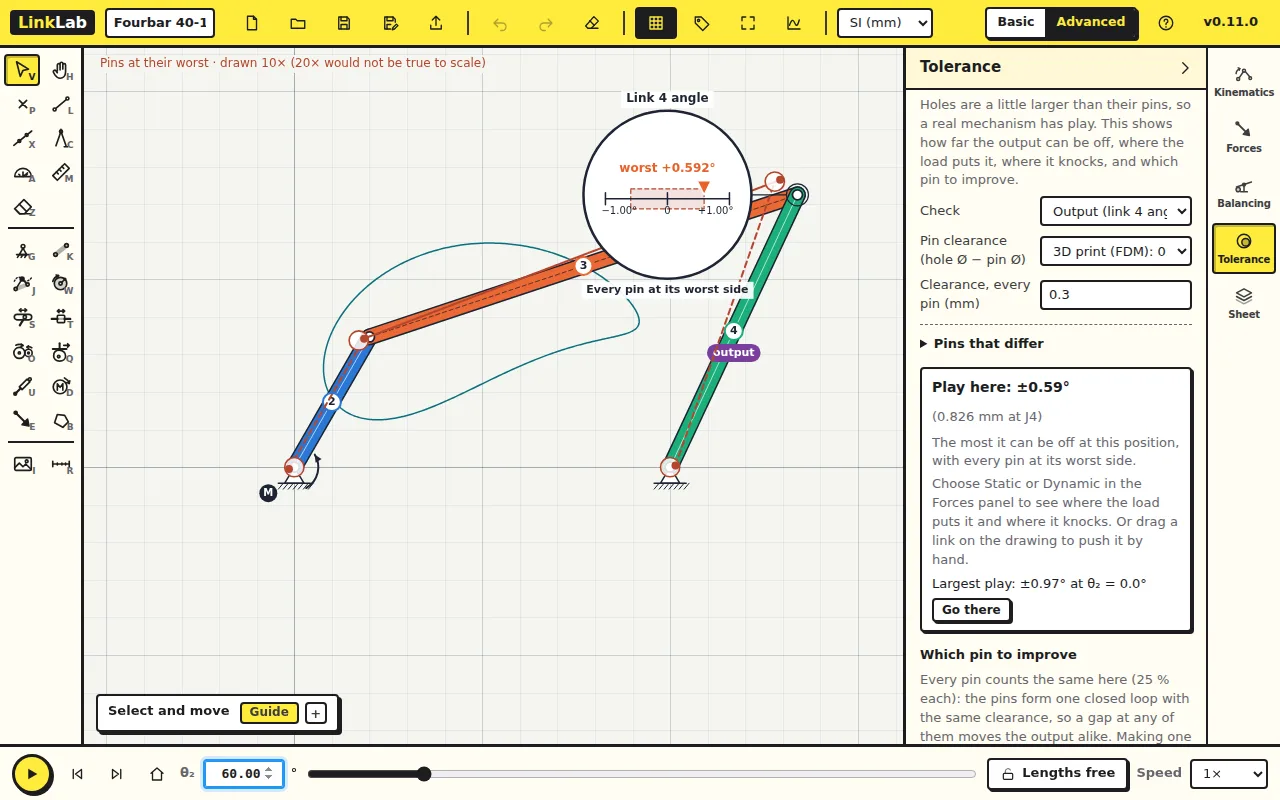
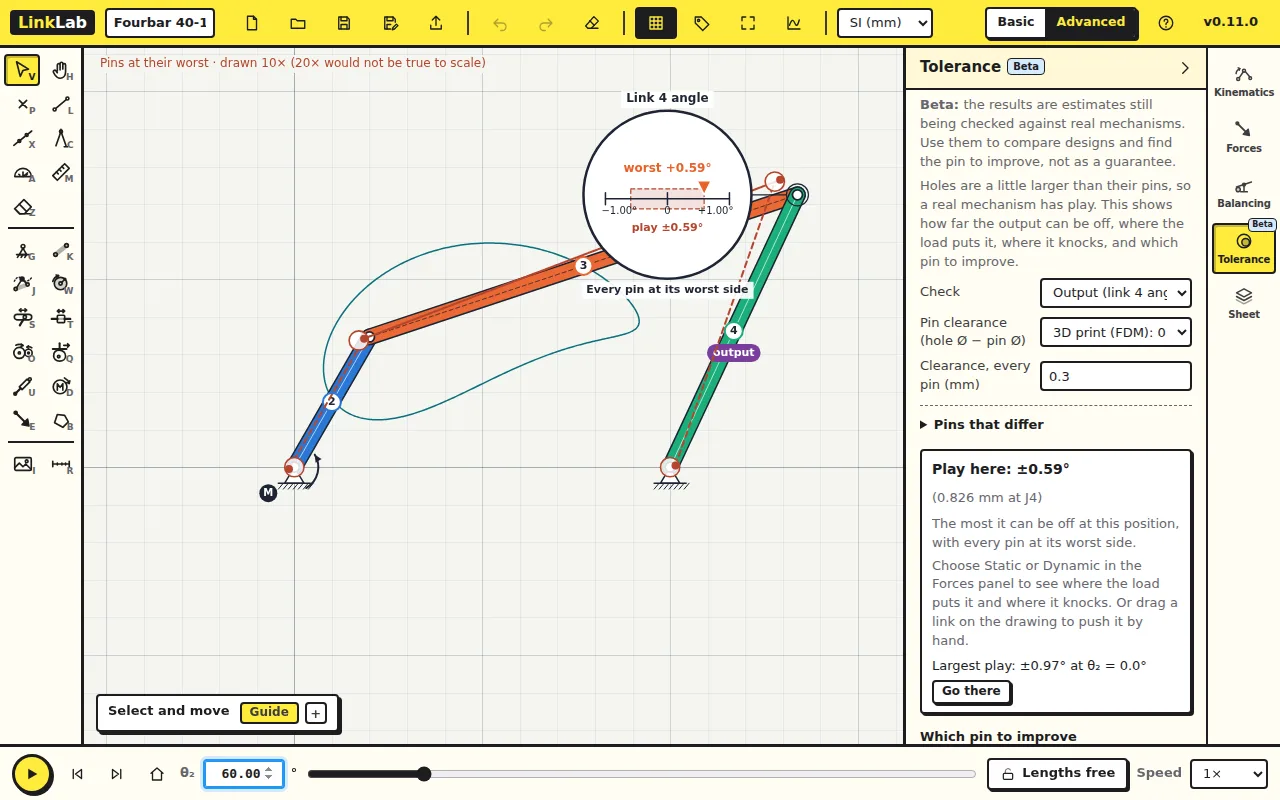
LinkLab: Tolerance marked Beta; magnifier labels; Download saves .html
The magnifier writes the play under its band and names its marker (load, push, worst), rounded as in the panel. The Download buttons save LinkLab.html and CamLab.html instead of .htm.

Claude-Session: https://claude.ai/code/session_013RBSkQq36nzQ5pYWu4cGHU

diff --git a/apps/linklab/src/ui/sidebar.js b/apps/linklab/src/ui/sidebar.js
@@ -4,7 +4,7 @@
 //   Kinematics   input, output, positions, mobility (analysis.js)
 //   Forces       statics and dynamics (forcesPanel.js)
 //   Balancing    counterweights and the rotor calculator (balancePanel.js)
-//   Tolerance    pin play and hole position error: path band (tolerancePanel.js)
+//   Tolerance    pin play and hole position error (tolerancePanel.js); marked Beta
 //   Sheet        layers, display sizes and colours (here); units: top bar
 // The tabs sit on a narrow rail at the right edge. Clicking the open tab (or
 // the arrow in its header) hides the panel and gives the drawing the room;
@@ -34,7 +34,7 @@ const TABS = [
   { id: 'kinematics', label: 'Kinematics', title: 'Kinematics', icon: 'tabKinematics' },
   { id: 'forces', label: 'Forces', title: 'Forces', icon: 'force' },
   { id: 'balance', label: 'Balancing', title: 'Balancing', icon: 'tabBalance' },
-  { id: 'tolerance', label: 'Tolerance', title: 'Tolerance', icon: 'tabTolerance' },
+  { id: 'tolerance', label: 'Tolerance', title: 'Tolerance', icon: 'tabTolerance', beta: true },   // beta: a badge on the tab and title
   { id: 'sheet', label: 'Sheet', title: 'Layers, units, grid and display', icon: 'tabSheet' },
 ];
 
@@ -69,7 +69,8 @@ export function buildSidebar(el, app) {
       const b = h('button', {
         class: 'side-tab', role: 'tab', 'aria-controls': 'side-body', title: t.title,
         onclick: () => (t.id === st.tab && !st.hidden ? setHidden(true) : show(t.id)),
-      }, icon(ICONS[t.icon], 20), h('span', { class: 'side-tab-label' }, t.label), h('span', { class: 'side-dot', hidden: true }));
+      }, icon(ICONS[t.icon], 20), h('span', { class: 'side-tab-label' }, t.label), h('span', { class: 'side-dot', hidden: true }),
+        t.beta ? h('span', { class: 'beta-badge side-beta', 'aria-hidden': 'true' }, 'Beta') : null);
       tabButtons.set(t.id, b);
       return b;
     }));
@@ -144,7 +145,7 @@ export function buildSidebar(el, app) {
   function updateRail() {
     el.classList.toggle('collapsed', st.hidden);
     const t = TABS.find((x) => x.id === st.tab);
-    title.textContent = t.title;
+    replaceChildren(title, t.title, t.beta ? h('span', { class: 'beta-badge' }, 'Beta') : null);
     for (const [id, b] of tabButtons) {
       const on = id === st.tab && !st.hidden;
       b.classList.toggle('on', on);
@@ -159,7 +160,8 @@ export function buildSidebar(el, app) {
     for (const [id, b] of tabButtons) {
       const dot = b.querySelector('.side-dot');
       dot.hidden = !dots[id];
-      b.title = TABS.find((x) => x.id === id).title + (id === 'forces' && dots.forces ? ' (on)' : id === 'balance' && dots.balance ? ' (counterweights in use)' : '');
+      const tab = TABS.find((x) => x.id === id);
+      b.title = tab.title + (tab.beta ? ' (beta)' : '') + (id === 'forces' && dots.forces ? ' (on)' : id === 'balance' && dots.balance ? ' (counterweights in use)' : '');
     }
   }
 

diff --git a/apps/linklab/src/drawing/render.js b/apps/linklab/src/drawing/render.js
@@ -558,7 +558,12 @@ export class Renderer {
       // for a point: the largest over the cycle spikes next to a limit and
       // would squash the play here to nothing)
       const isAng = tg.kind === 'angle';
-      const show = (x) => (isAng ? `${fmtSig(x * 180 / Math.PI, 3)}°` : `${fmtSig(U.len(x), 3)} ${U.label}`);
+      // values read as in the Tolerance panel (angles: 2 decimals, 3 below 0.1°)
+      const show = (x) => {
+        if (!isAng) return `${fmtSig(U.len(x), 3)} ${U.label}`;
+        const d = (x * 180) / Math.PI;
+        return `${d.toFixed(d < 0.1 ? 3 : 2)}°`;
+      };
       const loadedHere = now.loaded !== null && Number.isFinite(now.loaded) ? Math.abs(now.loaded) : 0;
       const reach = Math.max(1e-12, now.play, loadedHere) * 1.15;
       const big = isAng ? (niceCeil((reach * 180) / Math.PI) * Math.PI) / 180 : U.mm(niceCeil(U.len(reach)));   // round in the unit shown
@@ -577,15 +582,20 @@ export class Renderer {
       ctx.textAlign = 'center'; ctx.fillText('0', sx(0), y0 + 8 * kt);
       ctx.textAlign = 'left'; ctx.fillText(`−${show(big)}`, sx(-big) - 4 * kt, y0 + 8 * kt);
       ctx.textAlign = 'right'; ctx.fillText(`+${show(big)}`, sx(big) + 4 * kt, y0 + 8 * kt);
-      // where it is now (marker with its value)
-      const here = now.loaded !== null && Number.isFinite(now.loaded) ? now.loaded : now.worst;
+      // the play here, written under the scale (the shaded band)
+      ctx.font = this.font(11, 'bold'); ctx.fillStyle = TOLERANCE.zoneColor; ctx.textAlign = 'center';
+      ctx.fillText(`play ±${show(now.play)}`, C.x, y0 + 24 * kt);
+      // where it is (marker with its value): your push, else the load, else every pin at its worst side
+      const loaded = now.loaded !== null && Number.isFinite(now.loaded);
+      const here = loaded ? now.loaded : now.worst;
       if (Number.isFinite(here)) {
         const x = sx(here);
         ctx.fillStyle = TOLERANCE.loadColor; ctx.strokeStyle = '#FFFFFF'; ctx.lineWidth = 1.5;
         ctx.beginPath(); ctx.moveTo(x, y0 - 4 * kt); ctx.lineTo(x - 7 * kt, y0 - 18 * kt); ctx.lineTo(x + 7 * kt, y0 - 18 * kt); ctx.closePath(); ctx.fill(); ctx.stroke();
         ctx.font = this.font(12, 'bold'); ctx.fillStyle = TOLERANCE.loadColor; ctx.textAlign = 'center'; ctx.textBaseline = 'bottom';
-        ctx.fillText(`${now.loaded !== null && Number.isFinite(now.loaded) ? 'now' : 'worst'} ${here >= 0 ? '+' : '−'}${show(Math.abs(here))}`, C.x, y0 - 24 * kt);
-        if (!(now.loaded !== null && Number.isFinite(now.loaded))) foot = 'Every pin at its worst side';
+        const what = !loaded ? 'worst' : now.pushed ? 'push' : 'load';
+        ctx.fillText(`${what} ${here >= 0 ? '+' : '−'}${show(Math.abs(here))}`, C.x, y0 - 24 * kt);
+        if (!loaded) foot = 'Every pin at its worst side';
       }
       const nums = app.linkNumbers();
       if (isAng) title = `Link ${nums.get(tg.link)} angle`;

diff --git a/site/index.html b/site/index.html
@@ -196,9 +196,11 @@
               <li>Shaking force and moment, balanced with counterweights.</li>
               <li>Export the links as DXF for SolidWorks or Inventor.</li>
             </ul>
+            <!-- Download: Cloudflare serves download/LinkLab.html at download/LinkLab
+                 (no .html); download="…" gives the saved file its name, else Windows saves .htm -->
             <div class="actions">
               <a class="btn yellow" href="app/">Open LinkLab</a>
-              <a class="btn" href="download/LinkLab.html" download>Download <span class="ver">v{{LINKLAB_VERSION}}</span></a>
+              <a class="btn" href="download/LinkLab" download="LinkLab.html">Download <span class="ver">v{{LINKLAB_VERSION}}</span></a>
             </div>
           </div>
         </article>
@@ -215,7 +217,7 @@
             </ul>
             <div class="actions">
               <a class="btn blue" href="camlab/">Open CamLab</a>
-              <a class="btn" href="download/CamLab.html" download>Download <span class="ver">v{{CAMLAB_VERSION}}</span></a>
+              <a class="btn" href="download/CamLab" download="CamLab.html">Download <span class="ver">v{{CAMLAB_VERSION}}</span></a>
             </div>
           </div>
         </article>

diff --git a/apps/linklab/src/ui/styles.css b/apps/linklab/src/ui/styles.css
@@ -307,6 +307,9 @@ button, input, select { font: inherit; color: inherit; }
 .side-tab-label { font-size: 10px; font-weight: 700; letter-spacing: -0.2px; white-space: nowrap; }
 .side-dot { position: absolute; top: 4px; right: 6px; width: 8px; height: 8px; border-radius: 50%; background: var(--blue); border: 1.5px solid var(--ink); }
 .side-dot[hidden] { display: none; }
+/* Beta: a feature still being checked (Tolerance) */
+.beta-badge { display: inline-block; margin-left: 6px; padding: 0 5px; border: 1.5px solid var(--ink); border-radius: var(--radius); background: var(--blue-soft); color: var(--ink); font-size: 10px; font-weight: 800; line-height: 15px; vertical-align: 2px; }
+.side-beta { position: absolute; top: -7px; right: -3px; margin: 0; padding: 0 3px; font-size: 8px; line-height: 12px; }
 .panel { border-bottom: var(--border); }
 .panel > summary {
   list-style: none; cursor: pointer;

diff --git a/apps/linklab/src/ui/tolerancePanel.js b/apps/linklab/src/ui/tolerancePanel.js
@@ -43,6 +43,8 @@ export function buildTolerance(app) {
   const len = (v) => `${fmtSig(U.len(v), 3)} ${U.label}`;
   const parts = [];
 
+  parts.push(h('p', { class: 'note' }, h('b', {}, 'Beta: '),
+    'the results are estimates still being checked against real mechanisms. Use them to compare designs and find the pin to improve, not as a guarantee.'));
   parts.push(h('p', { class: 'note' },
     'Holes are a little larger than their pins, so a real mechanism has play. ',
     'This shows how far the output can be off, where the load puts it, where it knocks, and which pin to improve.'));

diff --git a/docs/USER_GUIDE.md b/docs/USER_GUIDE.md
@@ -450,7 +450,11 @@ counterweights, using the masses set in the Forces panel.
 two-plane balancing, the fan, and a fourbar whose shaking force drops to
 zero over the whole turn.
 
-## Tolerance: pin clearance
+## Tolerance: pin clearance (beta)
+
+The Tolerance tab is in **beta**: its results are estimates still being
+checked against real mechanisms. Use them to compare designs and find the
+pin to improve, not as a guarantee.
 
 Every hole is a little larger than its pin: on 3D-printed parts by about
 0.2–0.4 mm, on reamed holes with ground pins by a few hundredths of a
@@ -503,16 +507,15 @@ and the output is not exactly where the drawing says. The **Tolerance** tab
   window beside the checked point, magnified so the play can be seen, with
   its own scale bar.
   - A point: the shaded zone is where it can be at this position; the
-    dotted outline is where it can be over the whole cycle; the centre is its
-    ideal place; the orange line is where the load puts it over the cycle
-    (jumps dashed) and the dot is where it is now, as the dashed drawing has
-    it: where your push sends it, else where the load puts it, else with
-    every pin at its worst side.
-  - An angle or a slider: a scale from −play to +play; the shaded part is
-    the play here, the ticks are where the load puts it over the cycle (two
-    groups mean it changes side), the marker is where it is now (as for a
-    point: push, load, or every pin at its worst side).
-  - The knocks are listed under the window.
+    centre is its ideal place; the dot is where it is, as the dashed drawing
+    has it: where your push sends it, else where the load puts it, else with
+    every pin at its worst side. The scale bar gives the size.
+  - An angle or a slider: a round scale either side of zero; the shaded band
+    is the play here, written under it ("play ±0.59°", the panel's "Play
+    here"). The marker is where it is, labelled "push", "load" (the panel's
+    "Under the load") or "worst" (every pin at its worst side).
+  - How many times it knocks is written under the window; the list is in
+    the panel.
 - **The play on the drawing** (always, while the Tolerance tab is open): each
   hole as a ring with its pin where the load puts it (or at its worst side
   with forces off), and the mechanism shifted so (dashed), all drawn larger

diff --git a/CHANGELOG.md b/CHANGELOG.md
@@ -23,6 +23,13 @@ their own version numbers.
   grid spacing and snapping. The Sheet tab keeps Layers and Display.
 
 ### Changed
+- LinkLab: the Tolerance tab is marked Beta (a badge on the tab and its
+  title, and a line at the top of the panel).
+- LinkLab, Tolerance magnifier (an angle or a slider): the play is written
+  under the shaded band ("play ±0.64°"), and the marker says what it shows
+  ("load", "push" or "worst"), rounded as in the panel.
+- Website: the Download buttons save LinkLab.html and CamLab.html (Windows
+  saved them as .htm, because Cloudflare serves them without the .html).
 - LinkLab: a link on a ground pivot has its angle measured from that
   pivot whichever way it was drawn (θ₂ from O₂, θ₄ from O₄, the textbook
   way); other links from their first-drawn joint to the second. The

diff --git a/docs/tutorial/linklab-5-tolerance.md b/docs/tutorial/linklab-5-tolerance.md
@@ -9,6 +9,9 @@ summary: See how much the output can be off because every pin has play in its ho
 Real pins are smaller than their holes. This lesson shows what that does to
 the rocker's angle, and which pin matters most.
 
+The Tolerance tab is in beta: its numbers are estimates, good for comparing
+designs and finding the pin to improve.
+
 Start from [fourbar.linklab.json](files/fourbar.linklab.json). Switch to
 **Advanced**, open the **Tolerance** tab and set θ₂ to 60.
 
